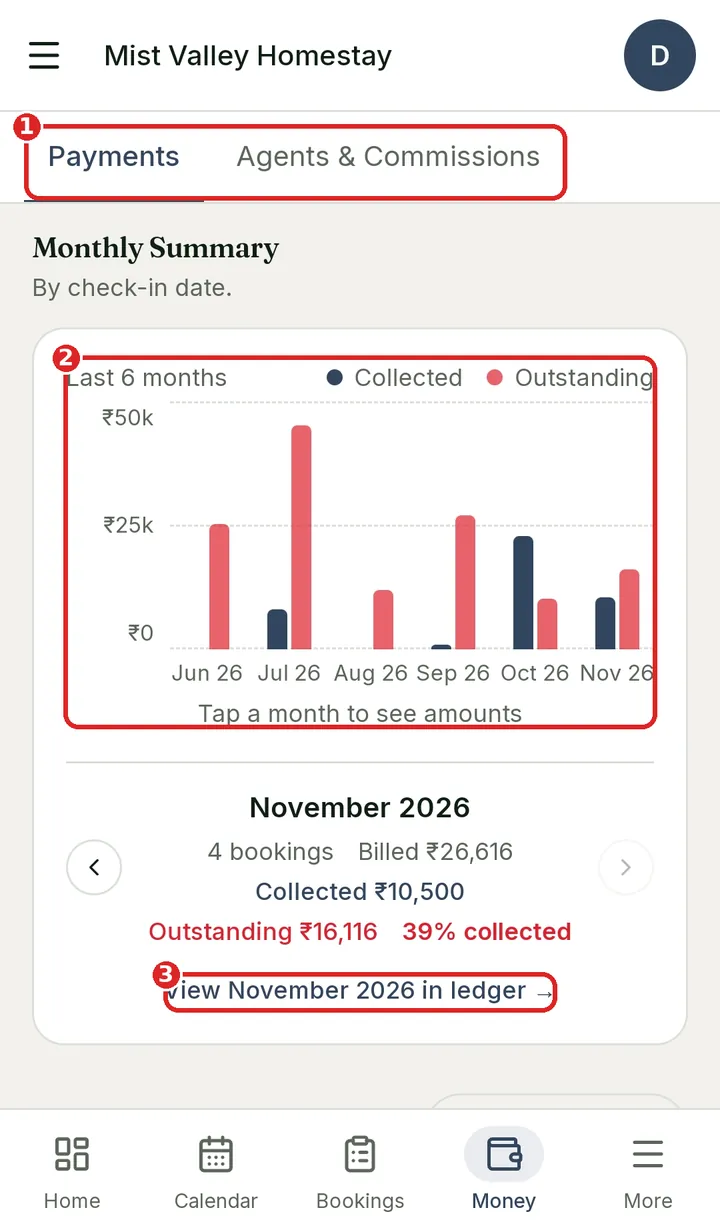
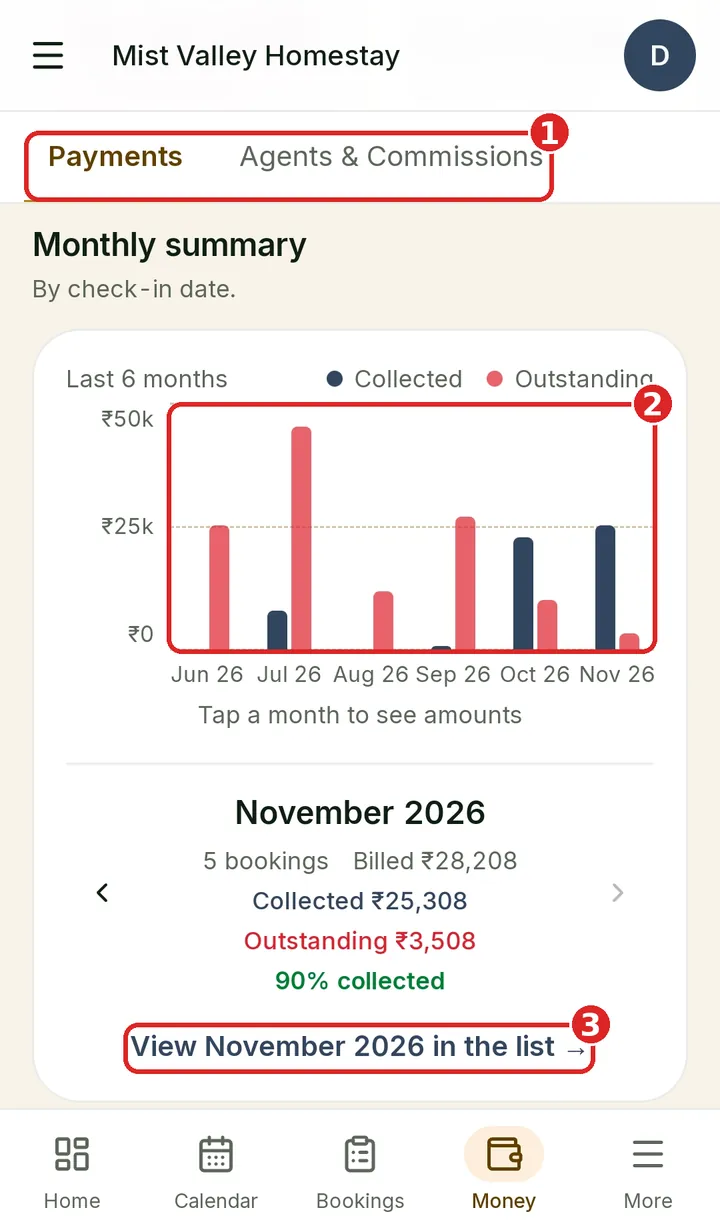
Help: retake 12 screenshots in the new UI, add Seasons and Agent shots
Retaken: 11, 12, 13, 15, 16, 18, 22, 25 (UPI ID pixelated), 27, 28, 29, 31.
New: 32-seasons-card, 33-add-season-form, 34-agent-opened.
Guide wording: agent button is Paid, Block nights / Block 1 night,
Set room prices becomes Add or change a room price. OWNER_HELP.md lists
the 14 screenshots still in the old look.

Claude-Session: https://claude.ai/code/session_01ANTkJnHQ4HU6pbchg7EXCM

diff --git a/src/content/ownerGuide.ts b/src/content/ownerGuide.ts
@@ -123,7 +123,8 @@ export const SITUATIONS: GuideSection[] = [
           "Open your own booking page and try those dates to see what guests see.",
         ],
       },
-      { type: "p", text: "**Prefer an exact price, or a different price for one room?** On the season, tap **Set room prices**, choose the room, choose **Fixed ₹ per night** and type the price." },
+      shot("33-add-season-form.webp", "Add season form with the season name, dates, Repeats every year, Room prices and the add-ons tick box", "**1** Season name. **2** **Starts** and **Ends (last night included)**. **3** **Repeats every year**. **4** **Room prices in this season**: 30 means 30% higher, -20 means 20% lower. **5** **Also use for add-ons & packages**."),
+      { type: "p", text: "**Prefer an exact price, or a different price for one room?** On the season, tap **Set room prices** (once a season has a room price, the button reads **Add or change a room price**), choose the room, choose **Fixed ₹ per night** and type the price." },
       { type: "p", text: "**Meals and extras too?** Leave **Also use for add-ons & packages** ticked and set each add-on's price for this season on the Add-ons page. Untick it if only room prices should change." },
     ],
   },
@@ -165,7 +166,7 @@ export const SITUATIONS: GuideSection[] = [
           "Check the red button at the bottom. It counts the nights (for example **Block 1 night**). Tap it.",
         ],
       },
-      shot("29-block-dates.webp", "Block dates form with room buttons, range options, a selected day and the Block button", "**1** Choose the room. **2** Select a range, or the whole month. **3** The day you picked turns red. **4** Tap Block."),
+      shot("29-block-dates.webp", "Block dates form with room buttons, range options, the month calendar and the Block nights button", "**1** Choose the room. **2** Select a range, or the whole month. **3** Tap the days. An orange dot means the day already has a booking. **4** Tap the red button. It reads **Block nights** until you pick days, then **Block 1 night**."),
       { type: "p", text: "The dates show **Blocked** and guests cannot book them. If the work finishes early, tap that day on the **Calendar** and tap **Reopen** next to the room. (In a single room's calendar, tap the **red bar**.)" },
       { type: "note", label: "Watch out", text: "If the room **already has a booking** on those dates, the app will tell you and will not block over it. Move that guest first, with **Edit Stay**." },
     ],
@@ -231,10 +232,11 @@ export const SITUATIONS: GuideSection[] = [
         items: [
           "When you tap **Add booking** for the agent's guest, choose **Agent** under **How did this booking come in?** and pick the agent. The commission is worked out for you.",
           "Open **Agents & Commissions** at any time. The top card shows **Total commission owed**, and each agent shows what is **owed**.",
-          "After you pay the agent, tap **Mark paid**. The date is saved.",
+          "Tap the **arrow** beside an agent to see their bookings. After you pay the agent, tap **Paid** on that booking. The date is saved.",
           "**Export CSV** downloads the list for your accounts.",
         ],
       },
+      shot("34-agent-opened.webp", "An agent opened to show one booking with its commission and the Paid button", "**1** Tap the arrow to open an agent. **2** Each booking shows its commission. **3** Tap **Paid** once you have paid the agent."),
       { type: "note", label: "Watch out", text: "A **percentage** commission cannot be more than 100%. If the amount looks wrong, check you chose percentage or flat correctly." },
     ],
   },
@@ -322,6 +324,7 @@ export const SETUP: GuideSection[] = [
       { type: "p", text: "A **Price preview** shows a weekday and a weekend night so you can check before saving." },
       shot("04-room-pricing.webp", "Room pricing fields with the price preview", "**1** Base price (Sunday to Thursday). **2** Extra guest charge. **3** Weekend multiplier. **4** Price preview."),
       { type: "p", text: "**Seasons** change prices for set dates, such as Christmas or April–May. You set them once, at the top of **Rooms & Pricing**: tap **Add season**, name it, pick the dates (the last night is included) and tick **Repeats every year** if the dates never move. Then choose what changes: on the season, **Room prices** can be **% change on base price** (30 for 30% higher, −20 for 20% lower) or **Fixed ₹ per night**, for **All rooms** or for one room. A room's editor shows its season prices, and **Change season prices** takes you back to Seasons." },
+      shot("32-seasons-card.webp", "Rooms and Pricing page with the Seasons box and a New Year season showing Room prices and Add-ons and packages", "**1** A season shows its name and dates. Use the pencil to edit it. **2** **Room prices**: this season adds 20% to Misty Ridge Room. **3** **Add or change a room price**. **4** **Add-ons & packages** can have their own price for the season."),
       {
         type: "list",
         items: [

diff --git a/docs/OWNER_HELP.md b/docs/OWNER_HELP.md
@@ -75,6 +75,9 @@ All are 720 px wide WebP (about 30–50 KB), phone screenshots of the **demo pro
 | `29-block-dates` | Block dates | `block-dates` |
 | `30-booking-confirmed-prompt` | "Booking confirmed" prompt | `guest-request` |
 | `31-calendar-single-room` | Single-room calendar bars | `read-calendar` |
+| `32-seasons-card` | Rooms & Pricing → Seasons, a season card (Room prices, Add-ons & packages) | `seasonal-rates` |
+| `33-add-season-form` | Add season form | `raise-prices` |
+| `34-agent-opened` | An agent opened, with the **Paid** button | `agent-guest` |
 
 `06-calendar` was retired (old text-in-cell calendar) and is no longer in the repo. `public/help/Help images` is an empty placeholder file made when the folder was created; it can be deleted.
 
@@ -88,6 +91,22 @@ All are 720 px wide WebP (about 30–50 KB), phone screenshots of the **demo pro
 
 > **11 Nov 2026: every screenshot is now out of date.** The owner side got a new look (soft flat cards, round buttons, one dialog style, avatar list on Payments, flat Calendar, pill navigation; see HANDOVER §10 item 50). Names and steps in the text are still right (the one wording change: Payments now says **View … in the list →**), but retake all screenshots in one session on the demo property so the guide looks consistent. Order of value: Home, Booking, Payments, Calendar, Block dates, Rooms editor, Settings.
 
+> **13 Nov 2026: 12 screenshots retaken in the new look, 3 new ones added, 14 still old.**
+> Retaken (720 × 1232, status bar cropped, numbered red boxes, UPI ID pixelated): `11`, `12`, `13`, `15`, `16`, `18`, `22`, `25`, `27`, `28`, `29`, `31`. New: `32-seasons-card` and `33-add-season-form` (in `seasonal-rates` and `raise-prices`), `34-agent-opened` (in `agent-guest`). Wording fixes made with them: the agent booking button is **Paid** (not "Mark paid"); the Block dates button reads **Block nights**, then **Block 1 night**; **Set room prices** becomes **Add or change a room price** once a season has a room price.
+> **Still the old look, retake on the demo property:**
+> - `01-home-needs-attention`: needs a **pending request** under Needs your attention (the new Home shows a check-in item).
+> - `02-booking-record-payment`: needs a **pending** booking so **Confirm** and **Record advance payment** both show.
+> - `30-booking-confirmed-prompt`: the prompt right after tapping Confirm.
+> - `07-add-booking`: top of the form (guest name, phone, how it came in, room list).
+> - `14-edit-stay`: Edit Stay Details with the calendar and dates.
+> - `08`, `09`, `10` quote screens: guest and stay; rooms and add-ons; the bottom with **Send on WhatsApp**.
+> - `21-quote-convert-booking`: the pre-filled convert form.
+> - `03-room-photos-and-guests`, `04-room-pricing`: the room editor.
+> - `19-package-form`: the package form.
+> - `24-policies`: Policies.
+> - `26-charges-tab`: Charges tab with an item chosen so Option, People and **Add to extras** show.
+> A WhatsApp screenshot (the guest confirmation message) was offered and **not used**: it shows a live tracking link and a phone number.
+
 > **12 Nov 2026: the page and the wording are updated, the screenshots are not.** `src/routes/help.tsx` now uses the 11 Nov owner-side look (soft `rounded-3xl` cards, round buttons and chips, no shadows, no uppercase labels, no serif headings). In `ownerGuide.ts`: the Settings jump buttons are named as they appear (**Payments, Photos, Branding, Basic info, Owner, Location**); **Correct collected amount** is the **pencil** button on a Payments row; "View … in the list →" replaces "in ledger" in the screenshot caption; the confirmation prompt button reads **Not now — I'll send it later**; Seasons say **Starts** / **Ends (last night included)**; added the **Record part payment** / **New payment (₹)** wording and the **Mark fully paid** → **Open booking** banner. Screenshots still show the old look and must be retaken (see above).
 
 The guide quotes button and field names exactly (for example **Edit Stay**, **Add to extras**, **Block 1 night**). When you change one of these, or a rule an owner follows (the 25 % advance gate, the hold hours, rate maths):
@@ -98,7 +117,7 @@ The guide quotes button and field names exactly (for example **Edit Stay**, **Ad
 
 Statements in the guide worth re-checking when code changes: the 25 % rule confirms a pending booking; a pending request is cancelled silently when its hold ends; the weekend multiplier applies on top of a season price; the last night of a season is included; overlapping seasons: higher priority, then shorter; a one-room price beats "All rooms" inside a season; a season with no Room prices never changes room prices.
 
-**Screenshots to retake after rollout (new Seasons screen, on the demo property):** (1) Rooms & Pricing with the Seasons section and one season card showing Room prices and Add-ons & packages; (2) the Add season form with the Room prices box; (3) a room editor showing Season prices. Add them to `raise-prices` and `seasonal-rates`.
+**Seasons screenshots:** the Seasons card (`32`) and the Add season form (`33`) are done. Still to take: a room editor showing **Season prices** (add it to `seasonal-rates`).
 
 Not screenshot-verified in the guide: that the booking shows **Refund due** after saving a shorter stay (the warning before saving is verified in code); the single-room "red bar" reopen tap; that "arriving" counts multi-room bookings correctly.
 
